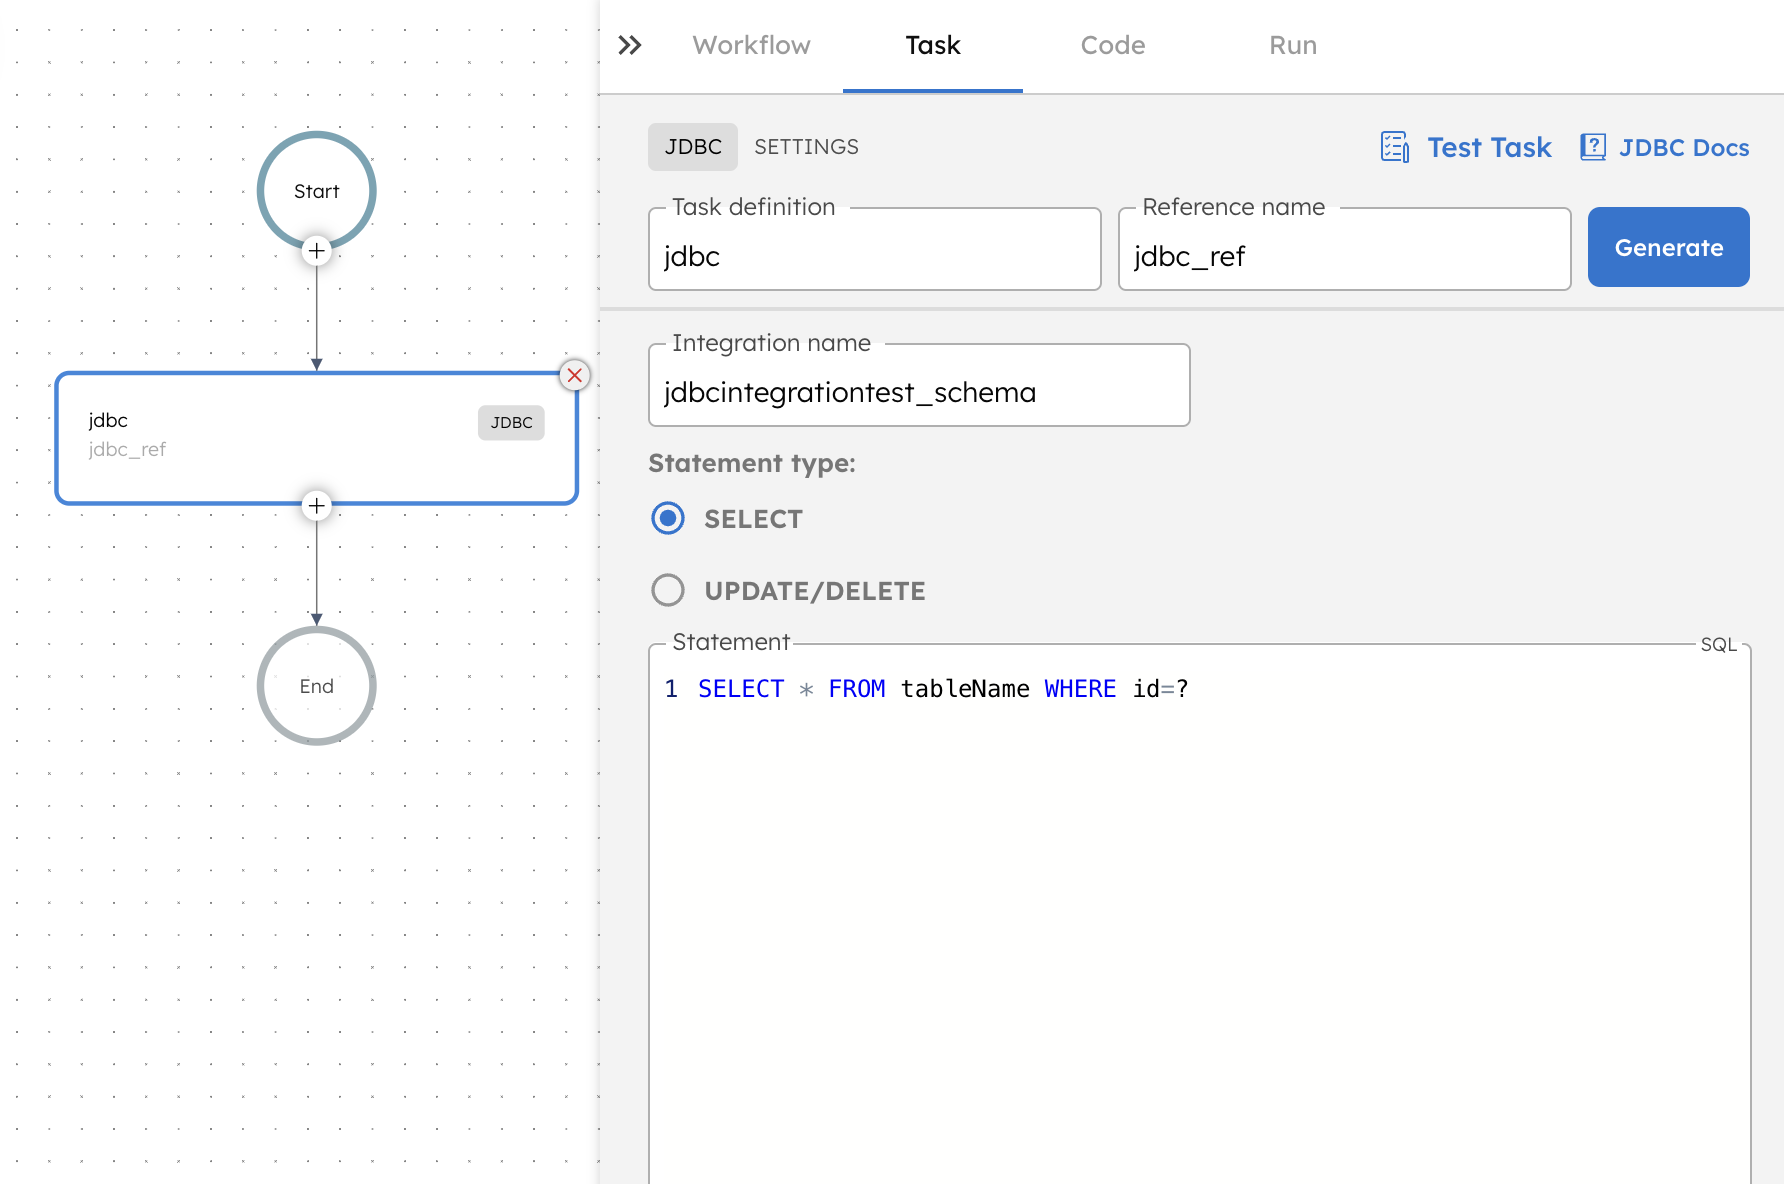
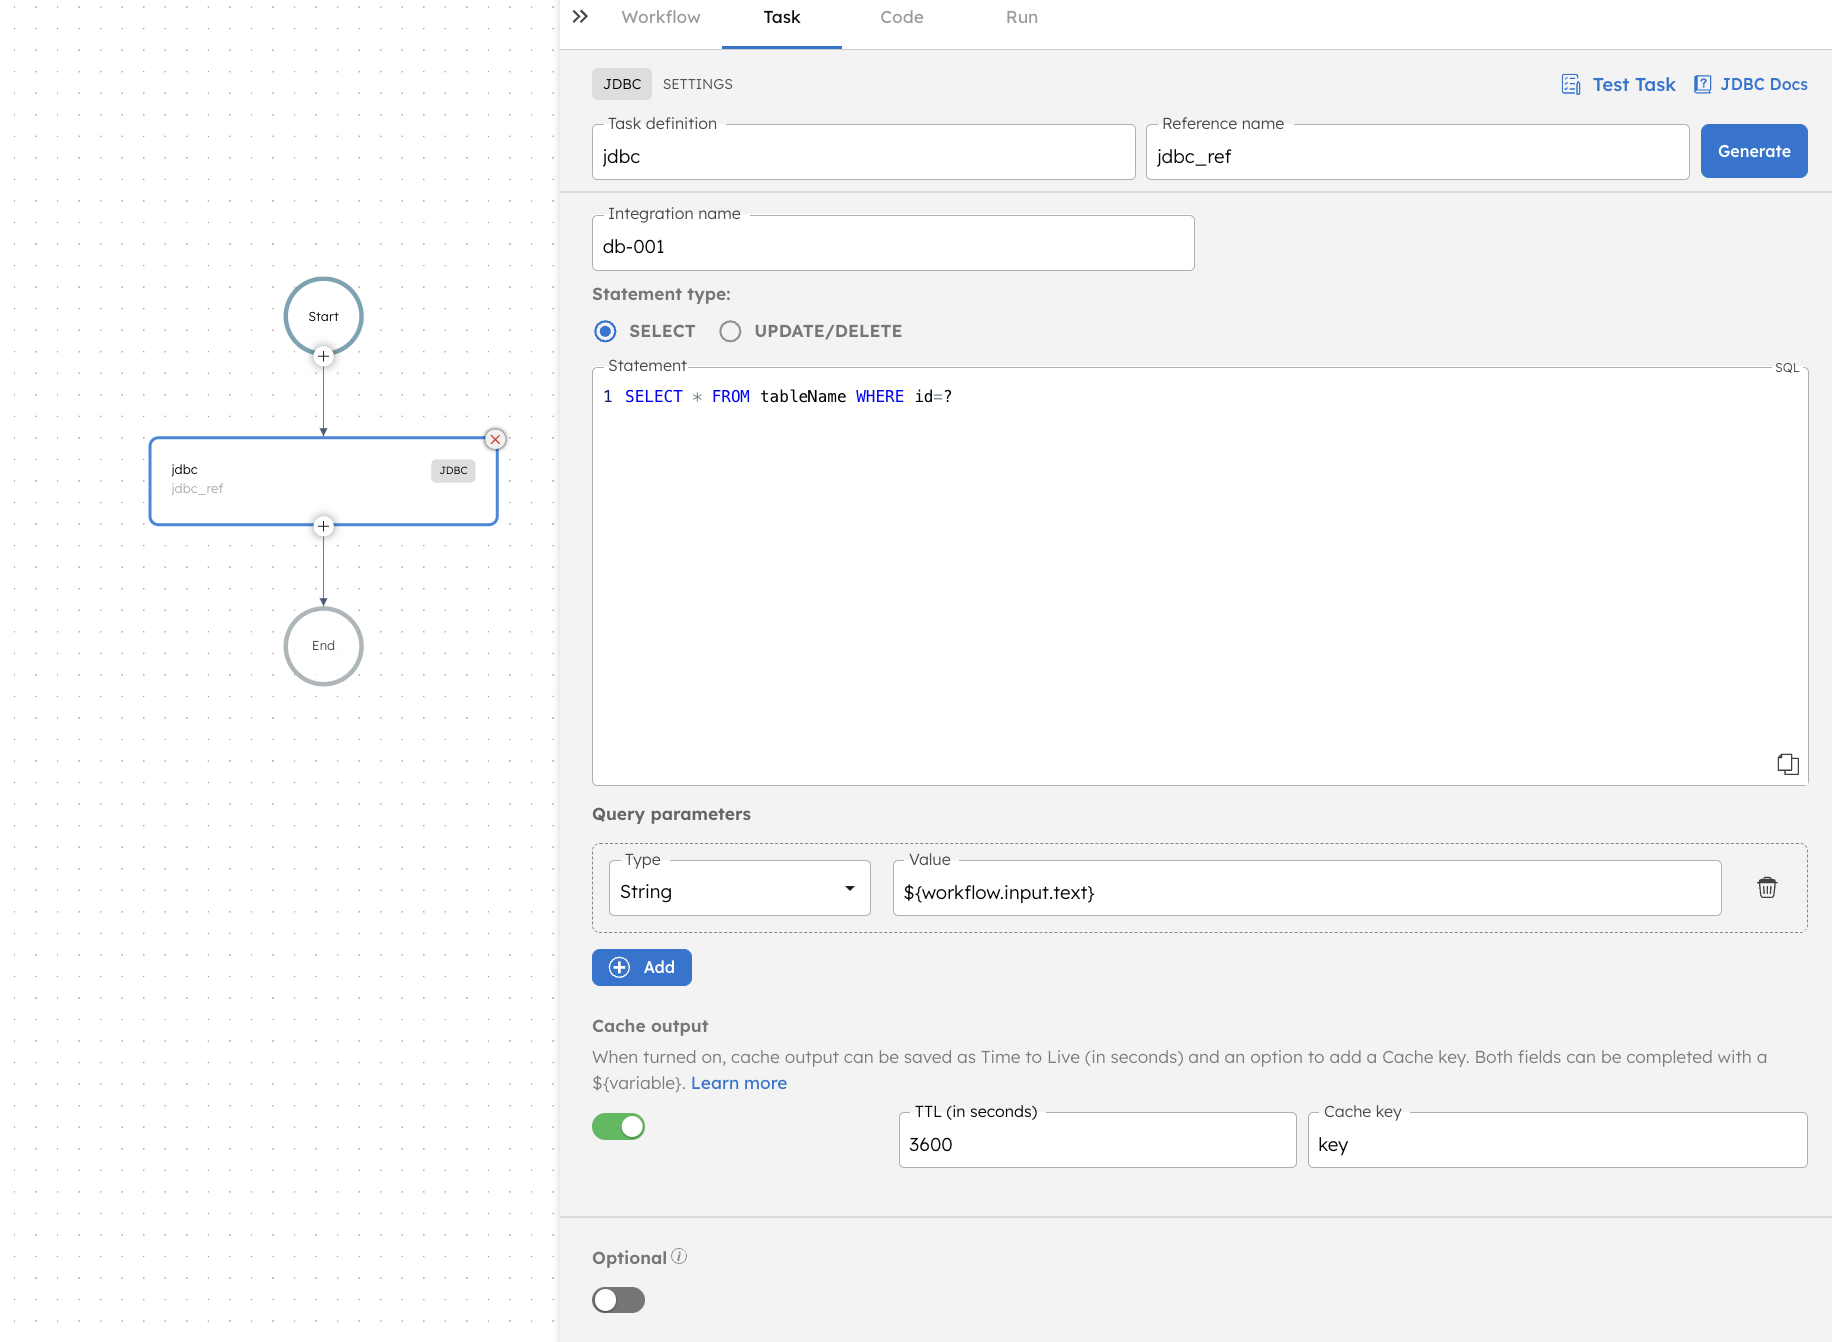
JDBC Doc Update

diff --git a/docs/reference-docs/system-tasks/jdbc.md b/docs/reference-docs/system-tasks/jdbc.md
@@ -16,14 +16,19 @@ A JDBC task is a system task used to execute or store information in SQL databas
      "name": "jdbc",
      "taskReferenceName": "jdbc_ref",
      "inputParameters": {
-       "integrationName": "jdbcintegrationtest_schema",
+       "integrationName": "db-001",
        "statement": "SELECT * FROM tableName WHERE id=?",
        "parameters": [
          "${workflow.input.text}"
        ],
        "type": "SELECT"
      },
-     "type": "JDBC"
+     "type": "JDBC",
+     "cacheConfig": {
+       "ttlInSecond": 3600,
+       "key": "key"
+     },
+     "optional": false
    }
 ```
 
@@ -31,11 +36,12 @@ A JDBC task is a system task used to execute or store information in SQL databas
 
 | Attribute | Description |
 | ---------- | ----------- |
-| Integration name | Choose the required database integration. You can only choose the integration to which you have access here.<br/><br/>**Note**: If you haven’t configured your database on your Orkes console, navigate to the **Integrations** tab and configure the integration under “**RDBMS > Relational Database**”.|
-| Statement type | Indicates the SQL statement type. It can take 2 values: SELECT or UPDATE.<br/><br/><ul><li>**SELECT** - Used to retrieve data from a database.</li><li>**UPDATE** - Used to modify existing data from the database.<ul><li>**Expected update count** - If you have chosen ‘UPDATE’ as the statement type, provide the number of rows you need to update in the database.</li></ul></li></ul>|
-| Statement | Provide the SQL statement to retrieve data from the SQL database. <br/><br/>An example statement would be **`SELECT * FROM tableName WHERE id=?`**, a query used to retrieve data from a table in a database. Replace **tableName** with the table name from which you want to retrieve data. |
-| Query parameters | Provide the query parameters to be bound with the SQL statement. It can be a string, number, boolean, or null. | 
-| cacheConfig | Enabling this option allows saving the cache output of the task. On enabling you can provide the following parameters:<ul><li>**TTL (in seconds)** - Provide the time to live in seconds.You can also pass this parameter as variables.</li><li>**Cache Key** - Provide the cache key, which is a string with parameter substitution based on the task input. You can also pass this parameter as variables.</li></ul>|
+| integrationName | Choose the required database integration. You can only choose the integration to which you have access here.<br/><br/>**Note**: If you haven’t configured your database on your Orkes console, navigate to the **Integrations** tab and configure the integration under “**RDBMS > Relational Database**”.|
+| type | Indicates the SQL statement type. It can take 2 values: SELECT or UPDATE.<br/><br/><ul><li>**SELECT** - Used to retrieve data from a database.</li><li>**UPDATE** - Used to modify existing data from the database.<ul><li>**Expected update count** - If you have chosen ‘UPDATE’ as the statement type, provide the number of rows to be updated in the database.</li></ul></li></ul>|
+| statement | Provide the SQL statement to retrieve data from the SQL database. <br/><br/>Example: **SELECT * FROM tableName WHERE id=?**, a query used to retrieve data from a table in a database. Replace **tableName** with the actual table name. |
+| parameters | Provide the query parameters to be bound by the SQL statement. It can be a string, number, boolean, or null. | 
+| cacheConfig | Enabling this option allows saving the cache output of the task. On enabling, you can provide the following parameters:<ul><li>**ttlInSecond** - Provide the time to live in seconds. You can also pass [this parameter as a variable](https://orkes.io/content/developer-guides/passing-inputs-to-task-in-conductor).</li><li>**key** - Provide the cache key, which is a string with parameter substitution based on the task input. You can also [pass this parameter as a variable](https://orkes.io/content/developer-guides/passing-inputs-to-task-in-conductor).</li></ul>|
+| optional | Enabling this option renders the task optional. The workflow continues unaffected by the task's outcome, whether it fails or remains incomplete. | 
 
 ## Examples
 
@@ -48,7 +54,7 @@ A JDBC task is a system task used to execute or store information in SQL databas
 <br/>
 <br/>
 
-1. Add task type `JDBC`.
+1. Add task type **JDBC**.
 2. Choose the integration name.
 3. Choose the Statement Type.
 4. Provide the SQL statement & Query parameters.
@@ -74,14 +80,19 @@ A JDBC task is a system task used to execute or store information in SQL databas
      "name": "jdbc",
      "taskReferenceName": "jdbc_ref",
      "inputParameters": {
-       "integrationName": "jdbcintegrationtest_schema",
+       "integrationName": "db-001",
        "statement": "SELECT * FROM tableName WHERE id=?",
        "parameters": [
          "${workflow.input.text}"
        ],
        "type": "SELECT"
      },
-     "type": "JDBC"
+     "type": "JDBC",
+     "cacheConfig": {
+       "ttlInSecond": 3600,
+       "key": "key"
+     },
+     "optional": false
    }
 ```
 
